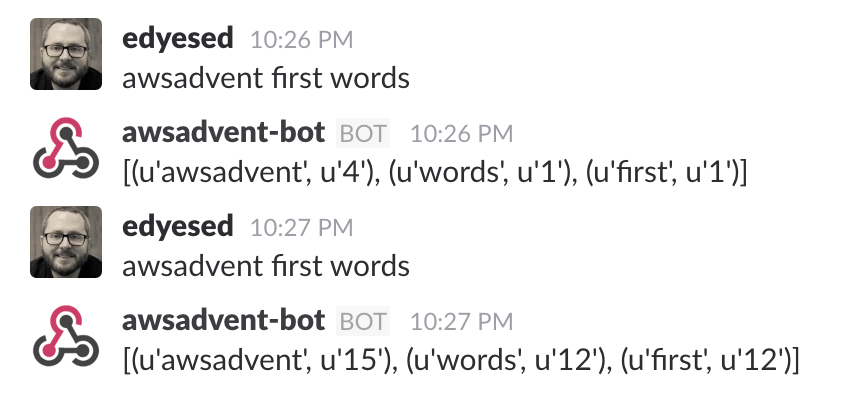
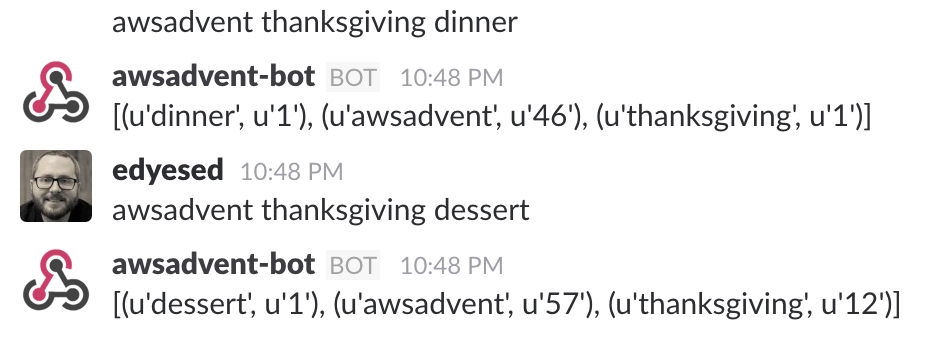
Now we're cooking

Changed region(s): [[0.0, 0.0294, 0.9332, 0.7059], [0.0, 0.7353, 0.9643, 0.9412]]

diff --git a/src/sns_logger/sns_logger.py b/src/sns_logger/sns_logger.py
@@ -1,0 +1,34 @@
+from __future__ import print_function
+import time
+import os
+import json
+import urlparse
+import boto3
+
+def handler(event, context):
+    """
+    This function puts into dynamo and get from it.
+    """
+    message = event['Records'][0]['Sns']['Message']
+
+    # xxx print("Started up")
+    # xxx print("message Below")
+    # xxx print(message)
+    # xxx print("CONTEXT")
+    # xxx print(context)
+    # xxx print(dir(context))
+    #
+    # there is some jiggery pokery required to be able to accept any
+    # input from slack, which provides not json input but query params
+    #
+    url_to_parse = 'http://fake.url.com/?message='+ message
+    parsed = urlparse.urlparse(url_to_parse)
+    input_text = urlparse.parse_qs(parsed.query)['message']
+ 
+    
+    # Just log here, but we could do more
+    #  we could also bring this back into slack with an inbound webhook 
+    for word in input_text[0].split():
+         print("LOG THIS WORD: %s" % (word))
+  
+    print("This function could do much more than log")

diff --git a/README.md b/README.md
@@ -50,7 +50,9 @@ CloudFormation is pretty well covered by [AWS Advent](http://awsadvent.tumblr.co
 # TO THE ~~BAT~~CODE CAVE! 
 ## Setup the first lambda, which will be linked to an outgoing webhook in slack
 ### Setup the DynamoDB 
-1. [![Video to DynamoDB Create](https://img.youtube.com/vi/ww3aSExgkRM/1.jpg)](https://youtu.be/ww3aSExgkRM "Make a DynamoDB")
+
+👇 You can follow the steps below, or view  this video 👉 [![Video to DynamoDB Create](https://img.youtube.com/vi/ww3aSExgkRM/1.jpg)](https://youtu.be/ww3aSExgkRM "Make a DynamoDB")
+
 1. Console  
 1. DynamoDB
 1. Create Table
@@ -58,7 +60,17 @@ CloudFormation is pretty well covered by [AWS Advent](http://awsadvent.tumblr.co
     1. Primary Key `word`
     1. `Create`
 
-### Setup the First Lambda [![Video to Create the first Lambda](https://img.youtube.com/vi/7gkmqYd6v8w/1.jpg)](https://youtu.be/7gkmqYd6v8w "Make The First Lambda to accept outgoing slack webhooks")
+### Setup the First Lambda 
+
+This lambda accepts the input from a slack outgoing webhook, splits the input into separate words, and adds a count of one to each word. It further returns a json response body to the outgoing webhook that displays a message in slack. 
+
+If the lambda is triggered with the input `awsadvent some words`, this lambda will create the following three keys in dynamodb, and give each the value of one.
+     * **awsadvent** = **1**
+     * **some** = **1**
+     * **words** = **1**
+
+👇 You can follow the steps below, or view  this video 👉 [![Video to Create the first Lambda](https://img.youtube.com/vi/7gkmqYd6v8w/1.jpg)](https://youtu.be/7gkmqYd6v8w "Make The First Lambda to accept outgoing slack webhooks")
+
 1. Make the first lambda, which accepts slack outgoing webook input, and saves that in DynamoDB
     1. Console
     1. lambda
@@ -85,6 +97,8 @@ CloudFormation is pretty well covered by [AWS Advent](http://awsadvent.tumblr.co
         1. `app.handler`
     1. Role
         1. Create new role from template(s)
+        1. Name
+            1. `aws_advent_lambda_dynamo`
     1. Policy Templates
         1. Simple Microservice permissions
     1. Triggers
@@ -92,7 +106,9 @@ CloudFormation is pretty well covered by [AWS Advent](http://awsadvent.tumblr.co
         1. **save the URL**
 
         
-### Link it to your favorite slack [![Video for setting up the slack outbound wehbook](https://img.youtube.com/vi/fnt78n2tvak/1.jpg)](https://youtu.be/fnt78n2tvak "Setup the slack outgoing webhook")
+### Link it to your favorite slack 
+
+👇 You can follow the steps below, or view  this video 👉 [![Video for setting up the slack outbound wehbook](https://img.youtube.com/vi/fnt78n2tvak/1.jpg)](https://youtu.be/fnt78n2tvak "Setup the slack outgoing webhook")
 1. Setup an outbound webhook in your favorite slack team.
     1. Manage
     1. search
@@ -108,7 +124,7 @@ CloudFormation is pretty well covered by [AWS Advent](http://awsadvent.tumblr.co
 1. Go to slack
      1. join the room
      1. say the trigger word
-     1. You should see ![something like this](https://github.com/edyesed/aws_advent_2016/raw/master/img/AWS_Advent_Diagram.png "First post of the awsadvent bot")
+     1. You should see something like 👉 ![something like this](img/AWSADVENT_BOT_firstpost.png "First post of the awsadvent bot")
 
 
 ## ☝☝ CONGRATS YOU JUST DID CHATOPS ☝☝
@@ -117,18 +133,30 @@ CloudFormation is pretty well covered by [AWS Advent](http://awsadvent.tumblr.co
 
 
 # Ok. now we want to do the awesome pubsub stuff
-## Make the SNS Topic
+### Make the SNS Topic
+We're using a SNS Topic as a broker. The **producer** ( the `aws_advent` lambda ) publishes messages to the SNS Topic.  Two other lambdas will be **consumers** of the SNS Topic, and they'll get triggered as new messages come into the Topic.
+
+👇 You can follow the steps below, or view  this video 👉 [![Video for setting up the SNS Topic](https://img.youtube.com/vi/ZB2Y-fEIYJ0/1.jpg)](https://youtu.be/ZB2Y-fEIYJ0 "Setup the SNS Topic")
 1. Console
 1. SNS
 1. New Topic
 1. Name `awsadvent`
-1. ***Note your topic ARN***
+1. ***Note the topic ARN***
            
 
-1. Go back and twiddle the IAM permissions on the role for the first lambda
+### Add additional permissions to the first lambda
+This permission will allow the first lambda to talk to the SNS Topic. You also need to set an environment variable on the `aws_advent` lambda to have it be able to talk to the SNS Topic. 
+
+👇 You can follow the steps below, or view  this video 👉 [![Adding additional IAM Permissions to the aws_lambda role](https://img.youtube.com/vi/b9cXoz6e8zA/1.jpg)](https://youtu.be/b9cXoz6e8zA "Setup the SNS Topic")
+1. Give additional IAM permissions on the role for the first lambda
      1. Console
      1. IAM
      1. Roles `aws_advent_lambda_dynamo`
+         1. Permissions
+         1. Inline Policies
+         1. click here
+         1. Policy Name
+         1. `aws_advent_lambda_dynamo_snspublish`
 
          ``` javascript
 {
@@ -140,9 +168,31 @@ CloudFormation is pretty well covered by [AWS Advent](http://awsadvent.tumblr.co
       }
    ]
 }
-     ```
 
-## Make the multiplier lambda
+```
+
+
+
+### Add the SNS Topic Arn to the aws_advent lambda
+👇 You can follow the steps below, or view  this video 👉 [![Adding a new environment variable to the lambda](https://img.youtube.com/vi/k_7KnVi9jy8/1.jpg)](https://youtu.be/k_7KnVi9jy8 "Adding a new environment variable to the lambda")
+
+There's a conditional in the `aws_advent` lambda that will publish to a SNS topic, if the SNS_TOPIC_ARN environment variable is set. Set it, and watch more pubsub magic happen.
+
+1. Add the *SNS_TOPIC_ARN* environment variable to the `aws_advent` lambda
+     1. Console
+     1. LAMBDA
+     1. `aws_advent`
+     1. Scroll down
+     1. `SNS_TOPIC_ARN`
+         1. The SNS Topic ARN from above.
+
+### Create a publisher lambda: `aws_advent_sns_multiplier`
+This lambda will subscribe to the SNS Topic, and will get invoked whenever a message comes into the SNS Topic. 
+
+This lambda reads the message sent to the SNS topic, and adds a count of ten to each word in the message.
+
+👇 You can follow the steps below, or view  this video 👉 [![Creating the sns_multiplier lambda](https://img.youtube.com/vi/L4LeoxR5pV4/1.jpg)](https://youtu.be/L4LeoxR5pV4 "Creating the sns multiplier lambda")
+
 1. Console
 1. lambda
 1. Create a Lambda function
@@ -154,7 +204,7 @@ CloudFormation is pretty well covered by [AWS Advent](http://awsadvent.tumblr.co
         1. `awsadvent`
         1. click `enable trigger`
 1. Name
-    1. `aws_advent_sns_multiplier`
+    1. `sns_multiplier`
 1. Runtime
     1. Python 2.7
 1. Code Entry Type
@@ -168,4 +218,50 @@ CloudFormation is pretty well covered by [AWS Advent](http://awsadvent.tumblr.co
    1. Simple Microservice permissions
 1. Next
 1. Create Function
+
+### Go back to slack and test it out. 
+Now that you have the most interesting parts hooked up together, test it out!
+
+What we'd expect to happen is pictured here 👉 ![everything working](img/AWSADVENT_BOT_withsnsmultiplier.png "Everything working")
+
+👇 Writeup is below, or view  this video 👉 [![Creating the sns_multiplier lambda](https://img.youtube.com/vi/e41IDKFO8dI/1.jpg)](https://youtu.be/e41IDKFO8dI "Creating the sns multiplier lambda")
+
+
+* The first time we sent a message, the count of the number of times the words are seen is one. This is provided by our first lambda
+* The second time we sent a message, the count of the number of times the words are seen is twelve. This is a combination of our first and second lambdas working together. 
+     1. The first invocation set the count to `current(0) + one`, and passed the words off to the SNS topic.  The value of each word in the database was set to **1**.
+     2. After SNS recieved the message, it ran the `sns_multiplier` lambda, which added ten to the value of each word `current(1) + 10`. The value of each word in the database was set to **11**.
+     2. The second invocation set the count of each word to `current(11) + 1`.  The value of each word in the database was set to 12.
+
+
+## Now you're doing pubsub microservices
+### Setup the logger lambda as well
+This output of this lambda will be viewable in the CloudWatch Logs console, and it's only showing that we could do something else ( anything else, even ) with this microservice implementation.
+
+1. Console
+1. lambda
+1. Create a Lambda function
+1. Select Blueprint
+        1. search sns
+        1. `sns-message` python2.7 runtime
+1. Configure Triggers
+   1. SNS topic
+        1. `awsadvent`
+        1. click `enable trigger`
+1. Name
+    1. `sns_logger`
+1. Runtime
+    1. Python 2.7
+1. Code Entry Type
+    1. Inline
+        1. It's included as [sns_logger.py](src/sns_logger/sns_logger.py) in this repo.
+1. Handler
+    1. sns_logger.handler
+1. Role
+    1. Create new role from template(s)
+1. Policy Templates
+   1. Simple Microservice permissions
+1. Next
+1. Create Function
+
 
